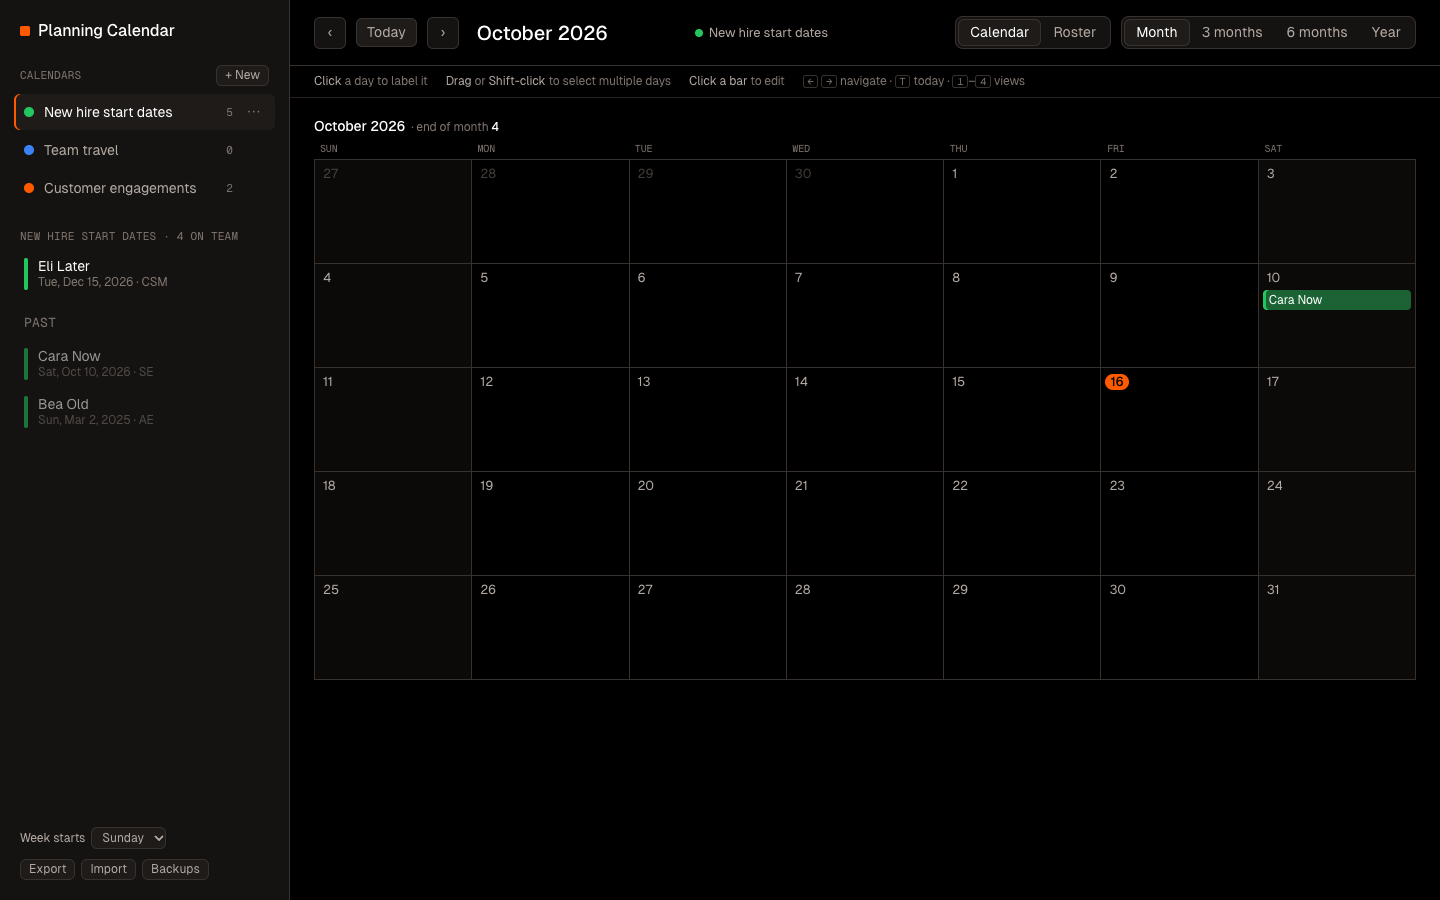
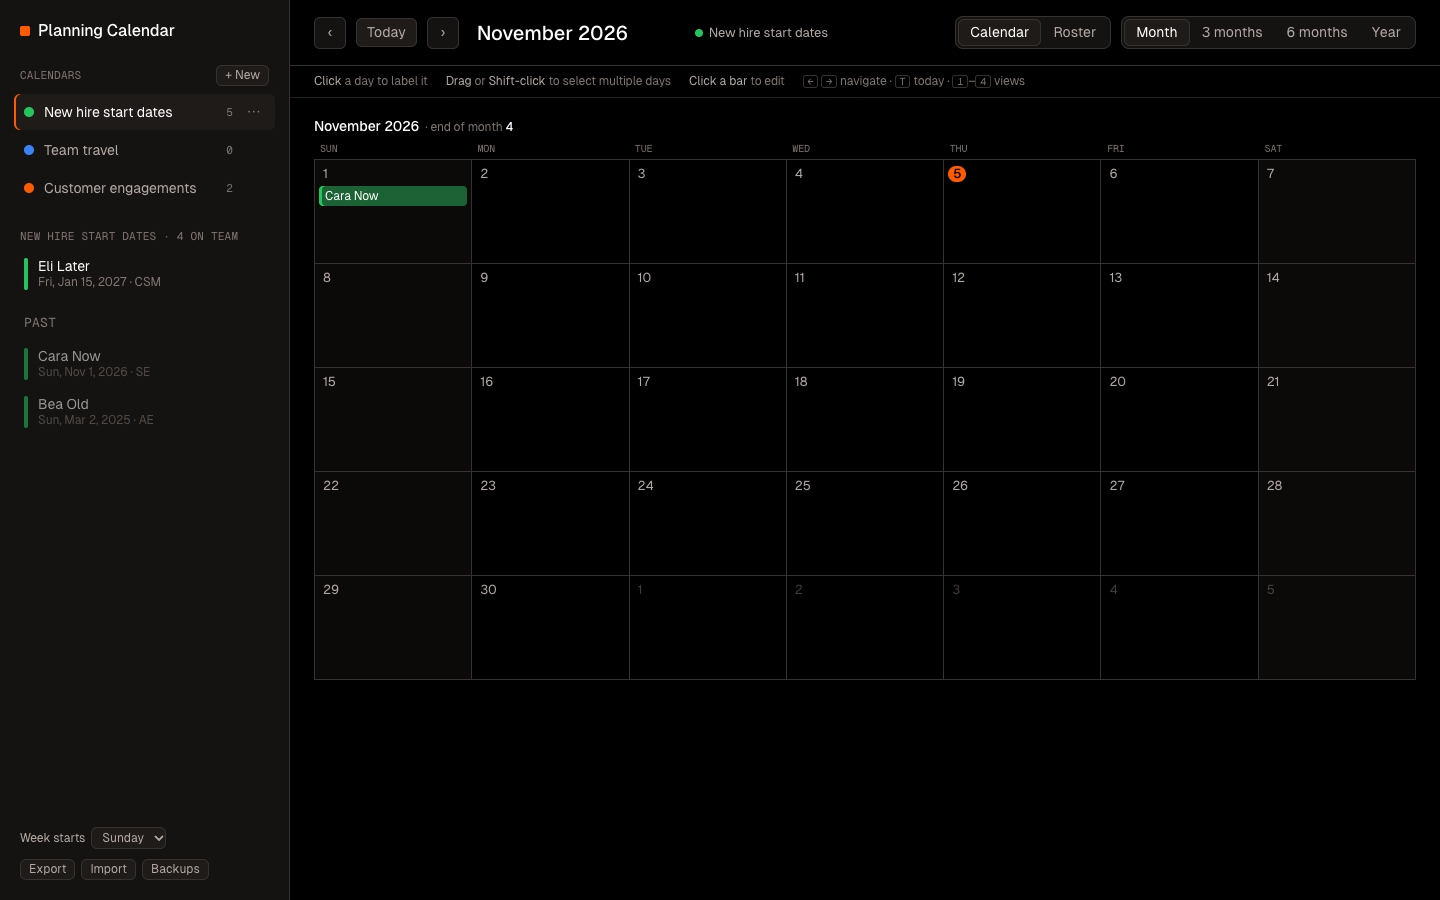
Add roster JSON export and import
Export roster downloads the roster calendar's people as JSON. Import roster
merges a roster file into the current roster: matching people (same id, or same
name and start date) are updated, new people are added, and nobody is removed.
A snapshot is saved before import and the toast offers Undo.

Also fixes a date-dependent smoke test check and covers export/import in the test.

diff --git a/index.html b/index.html
@@ -239,6 +239,7 @@
             <button class="btn sm" id="import">Import</button>
             <button class="btn sm" id="backups">Backups</button>
             <input type="file" id="import-file" accept="application/json" hidden />
+            <input type="file" id="roster-file" accept="application/json,.json" hidden />
           </div>
         </div>
       </aside>
@@ -665,6 +666,9 @@
             <input type="date" id="ra-date" title="Start date. Leave blank if already on the team." />
             <button class="btn primary" type="submit">Add person</button>
             <button class="btn" type="button" id="ra-bulk-toggle">Paste a list</button>
+            <span class="spacer" style="flex:1"></span>
+            <button class="btn" type="button" id="ra-export" title="Download this roster as a JSON file">Export roster</button>
+            <button class="btn" type="button" id="ra-import" title="Add people from a roster JSON file">Import roster</button>
           </form>
           <div class="bulk" id="ra-bulk" hidden>
             <textarea id="ra-bulk-text" placeholder="One person per line: Name, Role, Start date&#10;Priya Shah, Account Executive, 2026-11-02&#10;Sam Lee, SE, 11/16/2026&#10;Jordan Park, CSM          (no date = already on team)"></textarea>
@@ -699,7 +703,71 @@
         }
         return { out, bad };
       }
-      const addPerson = (cal, p) => cal.events.push({ id: uid(), title: p.title, role: p.role || '', start: p.start || null, end: p.start || null, color: cal.color, notes: '' });
+      const addPerson = (cal, p) => cal.events.push({ id: uid(), title: p.title, role: p.role || '', start: p.start || null, end: p.start || null, color: cal.color, notes: p.notes || '' });
+
+      function download(name, data) {
+        const a = document.createElement('a');
+        a.href = URL.createObjectURL(new Blob([JSON.stringify(data, null, 2)], { type: 'application/json' }));
+        a.download = name;
+        a.click();
+        setTimeout(() => URL.revokeObjectURL(a.href), 0);
+      }
+      const ROSTER_TYPE = 'planning-calendar-roster';
+      function rosterExport(cal) {
+        const people = [...cal.events]
+          .sort((a, b) => (a.start || '').localeCompare(b.start || '') || a.title.localeCompare(b.title))
+          .map((p) => ({ id: p.id, name: p.title, role: p.role || '', start: p.start || null, notes: p.notes || '' }));
+        return { type: ROSTER_TYPE, version: 1, calendar: cal.name, exportedAt: new Date().toISOString(), headcountToday: headcount(cal, todayKey()), people };
+      }
+      // Accepts this app's roster export, a bare array of people, or a full-app export (uses its first roster calendar).
+      function readRosterFile(data) {
+        let list = data;
+        if (data && data.type === ROSTER_TYPE) list = data.people;
+        else if (data && Array.isArray(data.calendars)) list = (data.calendars.find((c) => c.roster) || {}).events?.map((e) => ({ ...e, name: e.title }));
+        if (!Array.isArray(list)) throw new Error('Not a roster file');
+        const people = [], bad = [];
+        for (const p of list) {
+          const name = String(p?.name ?? p?.title ?? '').trim();
+          const raw = p?.start ? String(p.start) : '';
+          const start = raw ? parseDateLoose(raw) : null;
+          if (!name || (raw && !start)) { bad.push(p); continue; }
+          people.push({ id: p.id ? String(p.id) : null, title: name, role: String(p.role || '').trim(), start, notes: String(p.notes || '').trim() });
+        }
+        return { people, bad };
+      }
+      // Merge only: matching people (same id, or same name and start date) are updated, everyone else is added, nobody is removed.
+      function mergeRoster(cal, people) {
+        let added = 0, updated = 0;
+        const norm = (s) => s.toLowerCase().replace(/\s+/g, ' ');
+        for (const p of people) {
+          const match = cal.events.find((e) => (p.id && e.id === p.id)) ||
+            cal.events.find((e) => norm(e.title) === norm(p.title) && (e.start || null) === p.start);
+          if (match) {
+            Object.assign(match, { title: p.title, role: p.role, start: p.start, end: p.start, notes: p.notes });
+            updated++;
+          } else {
+            addPerson(cal, p);
+            added++;
+          }
+        }
+        return { added, updated };
+      }
+      $('roster-file').onchange = async (e) => {
+        const file = e.target.files[0];
+        e.target.value = '';
+        if (!file) return;
+        const cal = active();
+        try {
+          const { people, bad } = readRosterFile(JSON.parse(await file.text()));
+          if (!people.length) throw new Error('No people found');
+          snapshot(localStorage.getItem(STORE), 'Before roster import');
+          const before = JSON.parse(JSON.stringify(cal.events));
+          const { added, updated } = mergeRoster(cal, people);
+          save(); render();
+          const parts = [added && `added ${plural(added, 'person', 'people')}`, updated && `updated ${updated}`, bad.length && `skipped ${bad.length} unreadable`].filter(Boolean);
+          toast(`Roster import: ${parts.join(', ') || 'no changes'}`, () => { cal.events = before; save(); render(); });
+        } catch (err) { toast(`Roster import failed: ${err.message}`); }
+      };
 
       $('roster').addEventListener('submit', (e) => {
         e.preventDefault();
@@ -714,6 +782,13 @@
         toast(`Added ${name}`);
       });
       $('roster').addEventListener('click', (e) => {
+        if (e.target.id === 'ra-export') {
+          const cal = active();
+          download(`${cal.name.toLowerCase().replace(/[^a-z0-9]+/g, '-').replace(/^-|-$/g, '')}-roster-${todayKey()}.json`, rosterExport(cal));
+          toast(`Exported ${plural(cal.events.length, 'person', 'people')}`);
+          return;
+        }
+        if (e.target.id === 'ra-import') { $('roster-file').click(); return; }
         if (e.target.id === 'ra-bulk-toggle') { $('ra-bulk').hidden = !$('ra-bulk').hidden; if (!$('ra-bulk').hidden) $('ra-bulk-text').focus(); return; }
         if (e.target.id === 'ra-bulk-add') {
           const { out, bad } = parseBulk($('ra-bulk-text').value);
@@ -997,14 +1072,7 @@
       };
 
       // export / import
-      $('export').onclick = () => {
-        const blob = new Blob([JSON.stringify(state, null, 2)], { type: 'application/json' });
-        const a = document.createElement('a');
-        a.href = URL.createObjectURL(blob);
-        a.download = `planning-calendar-${todayKey()}.json`;
-        a.click();
-        URL.revokeObjectURL(a.href);
-      };
+      $('export').onclick = () => download(`planning-calendar-${todayKey()}.json`, state);
       $('import').onclick = () => $('import-file').click();
       $('import-file').onchange = async (e) => {
         const f = e.target.files[0];

diff --git a/README.md b/README.md
@@ -6,6 +6,7 @@ A single-file planning calendar for things like new hire start dates, team trave
 - Month, 3-month, 6-month, and year views
 - Click, drag, or Shift-click to select and label a day or a range of days
 - Headcount roster mode: a running list of people by start date, with counts for today and each month end
+- Roster export and import as JSON (import merges: matching people are updated, new people are added, nobody is removed)
 - Automatic snapshots, a Backups dialog to restore them, and JSON export and import
 
 ## Run it
